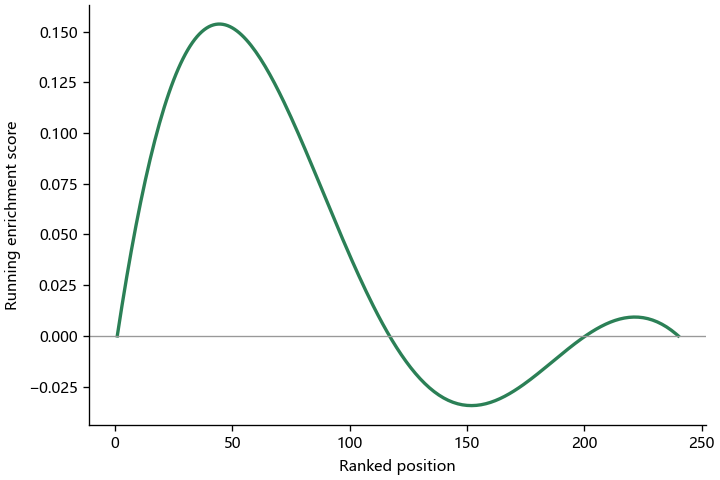
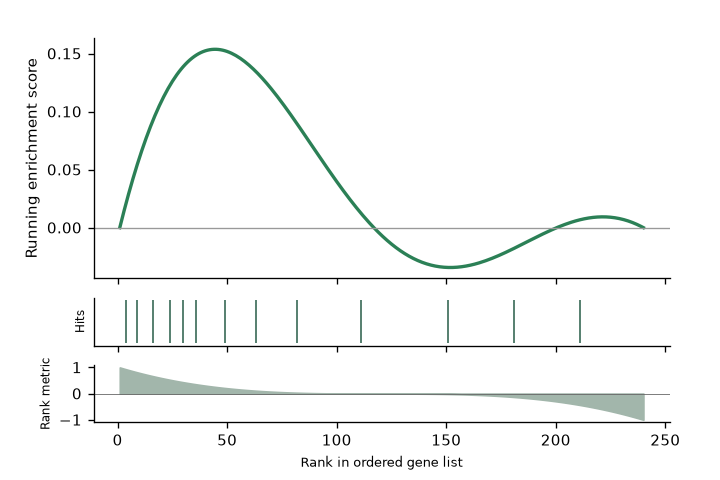
精简数据图表工具栏并固定标题，准备隔离的Python与R代码绘图

diff --git a/frontend/project-space.js b/frontend/project-space.js
@@ -124,13 +124,14 @@
 (() => {
   views.assets = async () => {
     const pid=state.project;
-    const groups=await api(pa('/asset-tasks'));
+    const knownTask=[...root.querySelectorAll('.task-nav-item')].find(e=>e.dataset.id===state.task);
+    const groups=knownTask?{items:[{id:state.task,name:knownTask.querySelector('span').textContent}]}:await api(pa('/asset-tasks'));
     if(state.project!==pid||state.page!=='assets')return '';
     let task=groups.items.find(t=>t.id===state.task)||(!state.task?groups.items[0]:null);
     if(!task&&state.task){
       try{const flow=await api(pa('/analysis/workflows/runs/'+id(state.task)));task={id:state.task,name:flow.run.name||state.task,pendingIndex:true};}catch{}
     }
-    if(task){state.task=task.id;root.querySelectorAll('.task-nav-item').forEach(e=>e.classList.toggle('chosen',e.dataset.id===task.id));}
+    if(task){state.task=task.id;root.querySelector('.scope').textContent='当前任务：'+task.name;root.querySelectorAll('.task-nav-item').forEach(e=>e.classList.toggle('chosen',e.dataset.id===task.id));}
     const tid=task?.id||'',key=pid+':'+tid;
     if(state.taskAssetKey!==key){state.taskAssetKey=key;state.assetPage=0;}
     state.assetTask=tid;state.assetTaskProject=pid;state.assetLegacy=false;
@@ -220,4 +221,23 @@
  }
  actions['paper-upload']=async()=>{modal('上传文献','<input type="file" id="project-file-input" multiple accept=".pdf,.bib,.ris,.enw,.txt"><p class="muted">选择文件后确认分类并上传到当前项目。</p>');state.importPurpose='literature';$('#project-file-input').click();};
  root.addEventListener('input',event=>{if(!event.target.matches('[data-catalogue-search]'))return;const term=event.target.value.trim().toLowerCase();root.querySelectorAll('.asset-card,.chart-type-card,.research-versions>.box').forEach(card=>card.hidden=!card.textContent.toLowerCase().includes(term));});
+})();
+
+(() => {
+ const oldChrome=chrome;chrome=function(){oldChrome();if(state.page==='assets')root.querySelector('.module-header-actions').innerHTML='';const selected=root.querySelector('.task-nav-item.chosen>span');root.querySelector('.scope').textContent='当前任务：'+(selected?.textContent||'尚未选择任务');};
+ for(const page of ['assets','charts']){const previous=views[page];views[page]=async()=>{const html=await previous(),t=document.createElement('template');t.innerHTML=html;t.content.querySelector('.task-assets-context')?.remove();const bar=t.content.querySelector('.catalogue-view-bar');if(bar){bar.querySelectorAll('strong,button').forEach(e=>e.remove());if(page==='assets')bar.insertAdjacentHTML('beforeend',button('＋ 上传资料','task-assets-upload','class="primary"'));else{bar.insertAdjacentHTML('beforeend',button('已有项目图表','research-existing')+button('＋ 添加图表','custom-chart-upload','class="primary"'));t.content.querySelector('.research-chart-intro')?.remove();}}return t.innerHTML;};}
+})();
+
+actions['custom-chart-upload']=async()=>{try{await api('/api/custom-charts/capabilities');}catch{return modal('添加图表 · 待启用','<p>Python / R 代码绘图已完成测试。按当前部署安排，等待运行中的分析任务结束后，再更新服务启用。</p>');}return modal('添加图表 · Python / R',`<form data-form="custom-chart"><label>绘图代码<input type="file" name="code" accept=".py,.r,.R" required></label><label>输入数据<input type="file" name="data" accept=".csv,.tsv" required></label><p>Python：os.environ['BIOFLOW_INPUT'] 读取数据，os.environ['BIOFLOW_OUTPUT'] 保存 PNG。R：使用 Sys.getenv('BIOFLOW_INPUT') 与 Sys.getenv('BIOFLOW_OUTPUT')。单次最长60秒；当前仅开发者账户可运行。</p><button class="primary">运行并生成图表</button></form><div class="custom-chart-preview" role="status"></div>`);};
+forms['custom-chart']=async form=>{const target=$('.custom-chart-preview');target.textContent='正在运行代码…';try{const result=await api(pa('/custom-charts'),'POST',new FormData(form));target.innerHTML=result.status==='failed'?`<pre class="result">${esc(result.error||result.message)}</pre>`:result.outputs.map(o=>`<div><img class="preview" src="${esc(o.url)}" alt="代码生成的图表"><a href="${esc(o.url)}" download="${esc(o.name)}">下载 ${esc(o.name)}</a></div>`).join('');}catch(e){target.textContent=e.message;}};
+
+(() => {
+ const reads=new Map(),previousApi=api;
+ api=async function(path,method='GET',body){
+  if(method!=='GET'){reads.clear();return previousApi(path,method,body);}
+  if(!/^\/api\/projects\/[^/]+\/(assets\?|figure-templates$|figures$)/.test(path))return previousApi(path,method,body);
+  const key=(bioflowUser?.id||'')+':'+path,entry=reads.get(key);if(entry&&Date.now()-entry.time<5000)return structuredClone(await entry.promise);
+  const promise=previousApi(path,method,body).catch(e=>{reads.delete(key);throw e;});reads.set(key,{time:Date.now(),promise});return structuredClone(await promise);
+ };
+ const previousRefresh=actions.refresh;actions.refresh=()=>{reads.clear();return previousRefresh();};
 })();

diff --git a/frontend/project-space.css b/frontend/project-space.css
@@ -109,3 +109,12 @@ body>#ai4s-prototype{max-width:none;width:100%;margin:0;border:0;border-radius:0
 #ai4s-prototype.compact-catalogue .category-pills button,#ai4s-prototype.compact-catalogue .asset-toolbar .tabs button{border-radius:9px;padding:7px 10px;font-size:13px}
 @media(max-width:1050px){#ai4s-prototype.compact-catalogue .asset-grid,#ai4s-prototype.compact-catalogue .research-chart-grid{grid-template-columns:repeat(2,minmax(0,1fr))}}
 @media(max-width:700px){#ai4s-prototype.compact-catalogue .content{padding:20px 16px}#ai4s-prototype .catalogue-view-bar{flex-wrap:wrap;gap:12px}#ai4s-prototype input.catalogue-search{width:100%;margin:0}#ai4s-prototype.compact-catalogue .asset-grid,#ai4s-prototype.compact-catalogue .research-chart-grid{grid-template-columns:1fr}}
+#ai4s-prototype>.shell>.main>.topbar{position:sticky;top:0;z-index:8;background:var(--paper)}
+#ai4s-prototype input.catalogue-search{margin-left:0;margin-right:auto;max-width:320px}
+#ai4s-prototype.compact-catalogue .chart-type-card{display:flex;flex-direction:column;align-items:stretch;gap:14px;padding:18px}
+#ai4s-prototype.compact-catalogue .chart-type-card img{width:100%;height:190px;object-fit:contain;background:transparent;border-radius:0;padding:0}
+#ai4s-prototype.compact-catalogue .chart-type-card h2{font-size:15px}
+#ai4s-prototype .modal:has([data-form=custom-chart]){width:min(1100px,95vw);display:grid;grid-template-columns:minmax(260px,1fr) minmax(300px,1.4fr);gap:24px}
+#ai4s-prototype .modal:has([data-form=custom-chart])>.row{grid-column:1/-1}
+#ai4s-prototype .custom-chart-preview{min-height:350px;padding:18px;border:1px solid var(--line);border-radius:12px;overflow:auto}
+@media(max-width:700px){#ai4s-prototype .modal:has([data-form=custom-chart]){grid-template-columns:1fr}}

diff --git a/backend/bioflow_platform/custom_charts.py b/backend/bioflow_platform/custom_charts.py
@@ -1,0 +1,60 @@
+"""Isolated Python/R plotting with owned, bounded jobs."""
+import asyncio,json,os,shutil,sys,uuid
+from pathlib import Path
+from fastapi import Request,UploadFile,File,HTTPException
+from fastapi.responses import FileResponse
+ROOT=Path(__file__).resolve().parents[2]
+R='/home/xh/.local/share/mamba/envs/biollm-humann/bin/Rscript'
+
+def install(app,get_store,check):
+ @app.get('/api/custom-charts/capabilities')
+ def capabilities(request:Request):
+  if request.state.user.get('role')!='developer':raise HTTPException(403,'代码绘图当前仅对开发者开放')
+  return {'languages':['python','r'],'timeout_seconds':60,'outputs':['png']}
+ def folder(pid,uid,jid):
+  if len(jid)!=32 or any(c not in '0123456789abcdef' for c in jid):raise HTTPException(404,'图表不存在')
+  return ROOT/'runtime/custom-charts'/uid/pid/jid
+ @app.post('/api/projects/{pid}/custom-charts')
+ async def create(pid:str,request:Request,code:UploadFile=File(...),data:UploadFile=File(...)):
+  check(pid,request)
+  if request.state.user.get('role')!='developer':raise HTTPException(403,'代码绘图当前仅对开发者开放')
+  ext=Path(code.filename or '').suffix.lower();de=Path(data.filename or '').suffix.lower()
+  if ext not in {'.py','.r'} or de not in {'.csv','.tsv'}:raise HTTPException(422,'请上传 Python/R 代码和 CSV/TSV 数据')
+  script=await code.read(512*1024+1);table=await data.read(20*1024**2+1)
+  if len(script)>512*1024 or len(table)>20*1024**2:raise HTTPException(413,'代码限512KB，数据限20MB')
+  jid=uuid.uuid4().hex;job=folder(pid,request.state.user['id'],jid);job.mkdir(parents=True);(job/'output').mkdir()
+  (job/('plot'+ext)).write_bytes(script);(job/('input'+de)).write_bytes(table)
+  command=['bwrap','--unshare-all','--die-with-parent','--new-session','--ro-bind','/usr','/usr','--ro-bind','/lib','/lib','--ro-bind','/lib64','/lib64','--ro-bind','/bin','/bin','--proc','/proc','--dev','/dev','--tmpfs','/tmp','--dir','/home','--dir','/home/xh']
+  paths=['/etc/alternatives','/etc/ld.so.cache','/etc/fonts','/home/xh/BioLLM_RawDataAnalysis/.venv','/home/xh/.local/lib/python3.10/site-packages','/home/xh/.local/share/mamba/envs/biollm-humann']
+  for path in paths:
+   if Path(path).exists():command+=['--ro-bind',path,path]
+  command+=['--bind',str(job),'/work','--chdir','/work','--clearenv','--setenv','PATH','/usr/bin:/bin','--setenv','HOME','/tmp','--setenv','MPLBACKEND','Agg','--setenv','MPLCONFIGDIR','/tmp/mpl','--setenv','OPENBLAS_NUM_THREADS','1','--setenv','OMP_NUM_THREADS','1','--setenv','BIOFLOW_INPUT','/work/input'+de,'--setenv','BIOFLOW_OUTPUT','/work/output']
+  if ext=='.py':command+=['--setenv','PYTHONPATH','/home/xh/.local/lib/python3.10/site-packages',sys.executable,'/work/plot.py']
+  else:command+=['--setenv','R_HOME','/home/xh/.local/share/mamba/envs/biollm-humann/lib/R','--setenv','R_LIBS_SITE','/home/xh/.local/share/mamba/envs/biollm-humann/lib/R/library',R,'--vanilla','/work/plot.r']
+  log=job/'run.log'
+  async def execute():
+   with log.open('wb') as out:
+    process=await asyncio.create_subprocess_exec('/usr/bin/prlimit','--cpu=45','--fsize=26214400','--as=3221225472','--nproc=4096','--','/usr/bin/timeout','--kill-after=3','60',*command,stdout=out,stderr=out)
+    await process.wait()
+   outputs=[]
+   from PIL import Image
+   for f in sorted((job/'output').glob('*.png'))[:12]:
+    if f.stat().st_size>25*1024**2:continue
+    try:
+     with Image.open(f) as im:
+      if im.width*im.height>20000000:continue
+      im.verify()
+     outputs.append({'name':f.name,'url':f'/api/projects/{pid}/custom-charts/{jid}/files/{f.name}'})
+    except Exception:continue
+   text=log.read_bytes()[-16000:].decode(errors='replace')
+   result={'id':jid,'status':'completed' if process.returncode==0 and outputs else 'failed','outputs':outputs,'error':text if process.returncode or not outputs else '', 'message':'请将 PNG 图片保存到 BIOFLOW_OUTPUT 目录' if not outputs else ''}
+   (job/'result.json').write_text(json.dumps(result,ensure_ascii=False));return result
+  return await execute()
+ @app.get('/api/projects/{pid}/custom-charts/{jid}/files/{name}')
+ def output(pid:str,jid:str,name:str,request:Request):
+  check(pid,request);job=folder(pid,request.state.user['id'],jid)
+  try:result=json.loads((job/'result.json').read_text())
+  except OSError:raise HTTPException(404,'图表不存在')
+  if name not in {r['name'] for r in result['outputs']} or Path(name).name!=name:raise HTTPException(404,'图表不存在')
+  return FileResponse(job/'output'/name,media_type='image/png')
+

diff --git a/scripts/build_chart_previews.py b/scripts/build_chart_previews.py
@@ -38,6 +38,15 @@ for chart,data in rows.items():
     if args.only and chart not in args.only:continue
     fig,ax=plt.subplots(figsize=(6,4),layout='constrained')
     importlib.import_module('backend.bioflow_platform.charts.'+chart).draw(data,fig,ax,{})
+    if chart=='gsea':
+        ax.set_position([.13,.42,.8,.5])
+        hits=fig.add_axes([.13,.28,.8,.1],sharex=ax)
+        hits.vlines([r['position'] for r in data if r['hit']],0,1,color='#386a56',lw=1)
+        hits.set_yticks([]);hits.tick_params(axis='x',labelbottom=False);hits.set_ylabel('Hits',fontsize=7)
+        rank=fig.add_axes([.13,.12,.8,.12],sharex=ax)
+        xx=np.arange(1,len(data)+1);metric=np.linspace(1,-1,len(data))**3
+        rank.fill_between(xx,metric,color='#a2b6ab');rank.axhline(0,color='#666',lw=.5);rank.set_ylabel('Rank metric',fontsize=7);rank.set_xlabel('Rank in ordered gene list',fontsize=8)
+        ax.set_xlabel('');ax.tick_params(axis='x',labelbottom=False)
     ax.set_title('')
     handles,labels=ax.get_legend_handles_labels()
     if handles and not getattr(ax,'_bioflow_custom_legend',False):ax.legend(handles,labels,fontsize=7,frameon=False)

diff --git a/backend/bioflow_platform/app.py b/backend/bioflow_platform/app.py
@@ -372,3 +372,6 @@ async def proxy(service: str,path: str,request: Request):
     for cookie in response.headers.get_list('set-cookie'):
         result.headers.append('set-cookie',cookie)
     return result
+
+from .custom_charts import install as install_custom_charts
+install_custom_charts(app,lambda:store,project)

diff --git a/docs/CUSTOM_CHARTS.md b/docs/CUSTOM_CHARTS.md
@@ -1,0 +1,28 @@
+# 代码绘图（待当前分析结束后启用）
+
+支持 Python `.py` 与 R `.r` / `.R`，输入 CSV/TSV；生成 PNG 后在页面预览、下载。
+
+Python 示例：
+```python
+import os
+from pathlib import Path
+import pandas as pd
+import matplotlib.pyplot as plt
+x = pd.read_csv(os.environ['BIOFLOW_INPUT'])
+plt.plot(x.iloc[:, 0], x.iloc[:, 1])
+plt.savefig(Path(os.environ['BIOFLOW_OUTPUT']) / 'figure.png', dpi=180)
+```
+
+R 示例：
+```r
+x <- read.csv(Sys.getenv('BIOFLOW_INPUT'))
+png(file.path(Sys.getenv('BIOFLOW_OUTPUT'), 'figure.png'), width=1200, height=800)
+plot(x[[1]], x[[2]])
+dev.off()
+```
+
+当前仅开发者账户运行代码。执行使用 Bubblewrap 隔离：无网络、只读工具环境、独立任务目录；最长60秒，代码512KB、输入20MB、单文件输出25MB，预览最多12张PNG。绘图库缺失或代码报错显示在预览区域。
+
+已验证服务器 Python/Matplotlib 与 R 4.5.3 能在隔离环境生成 PNG。R 环境位于 `/home/xh/.local/share/mamba/envs/biollm-humann`，已安装 ggplot2。
+
+用户选择等待“PRJEB33098 九样本宏基因组测试”完成后启用。接口源码已接入，当前运行进程尚未加载；前端显示待启用。确认没有活动分析后，按原部署方式重启服务即可加载，不应在分析运行时重启。
